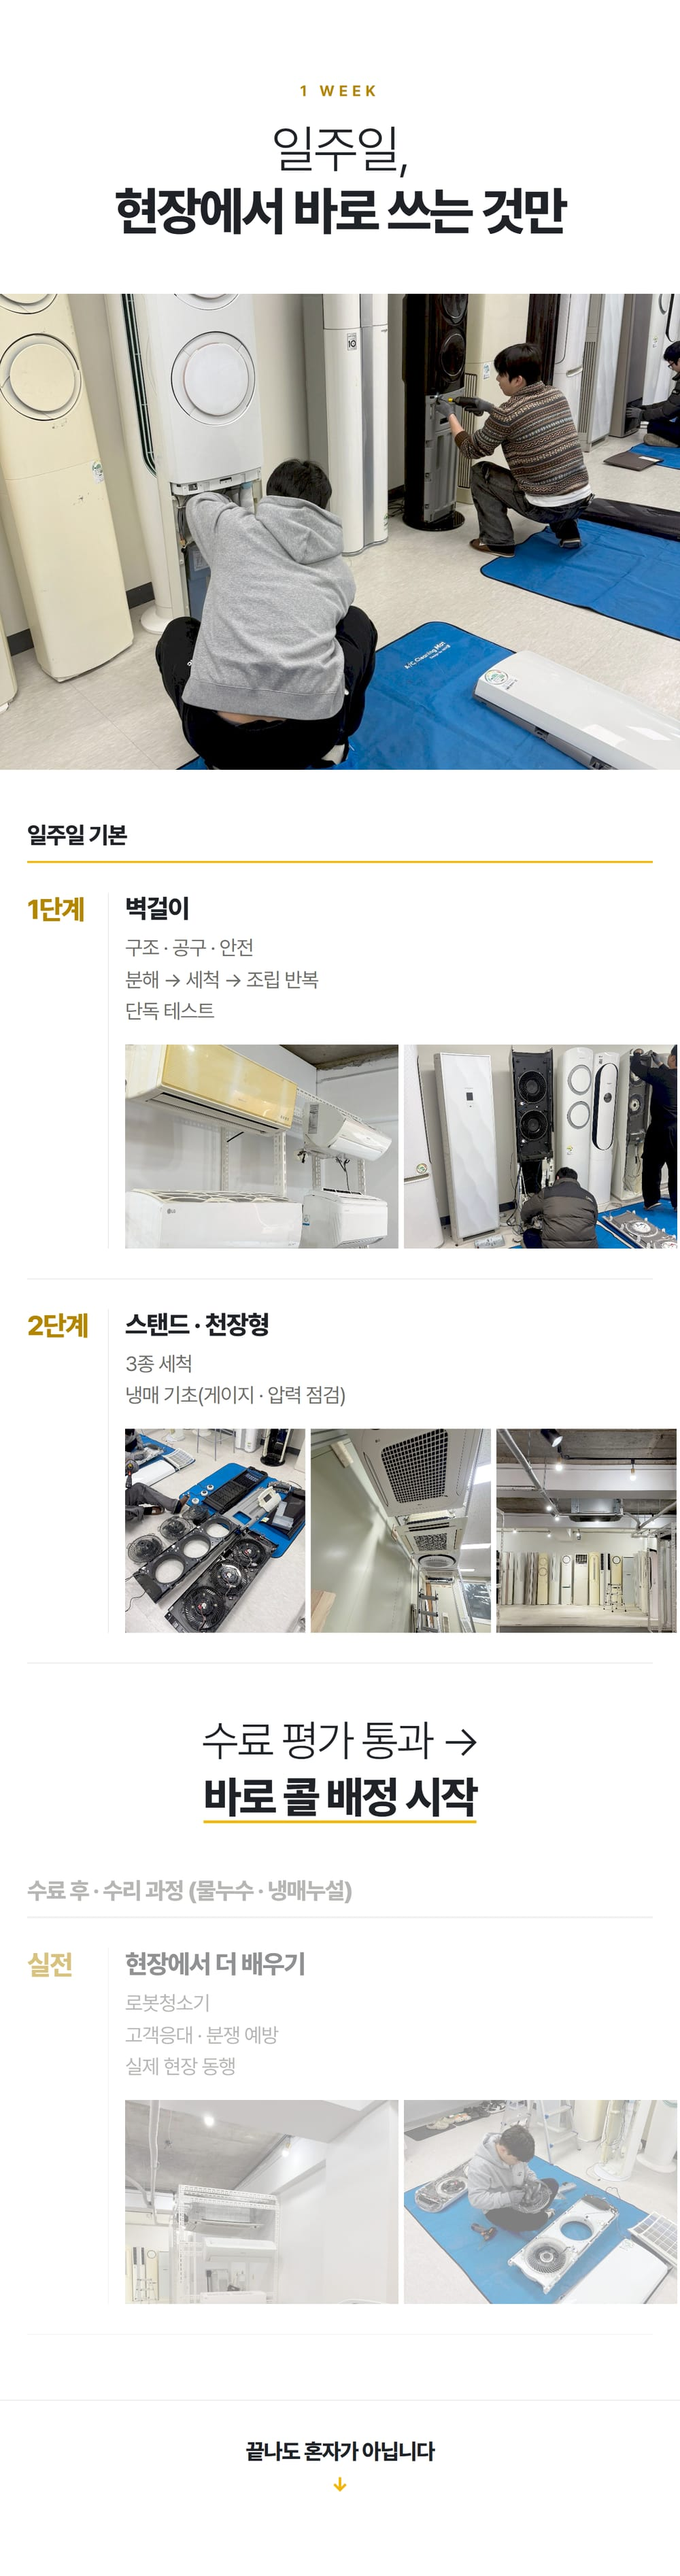
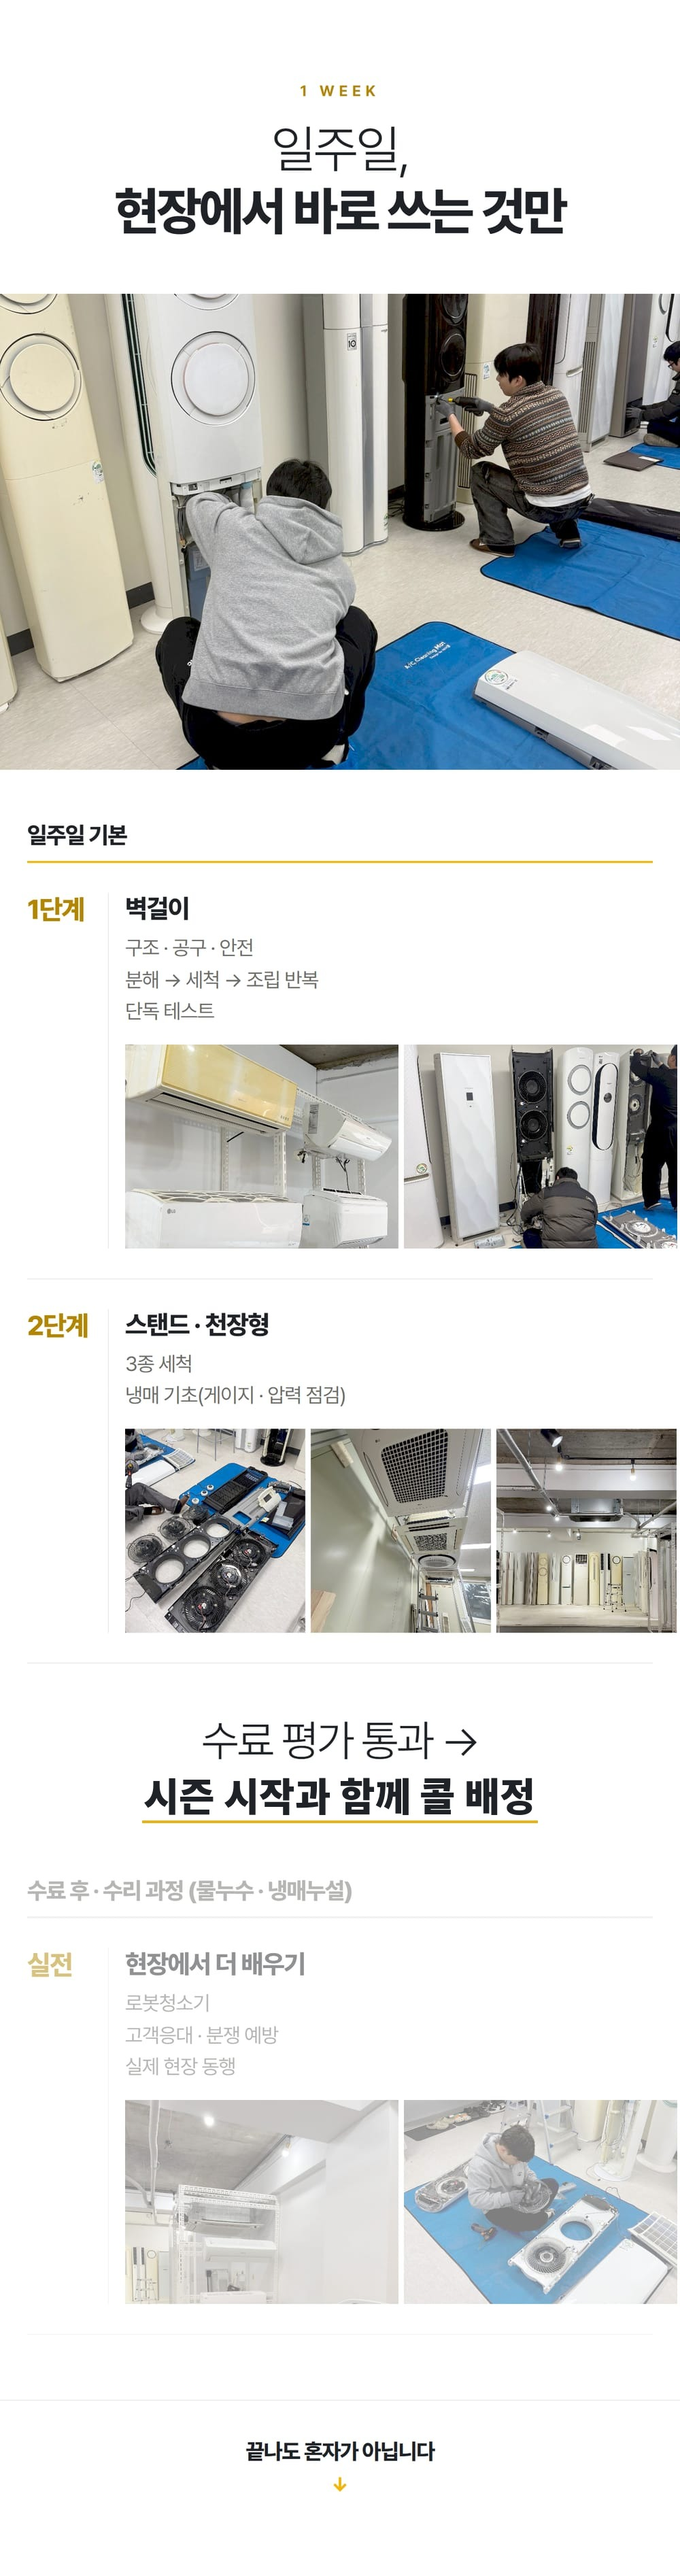
academy 수정

Changed region(s): [[0.217, 0.6853, 0.806, 0.7165]]

diff --git a/public/academy.html b/public/academy.html
@@ -4,7 +4,7 @@
 <meta charset="utf-8">
 <meta name="viewport" content="width=device-width,initial-scale=1,viewport-fit=cover">
 <title>올데이케어 에어컨 기사 양성 과정 | 일주일 배우고 일감까지</title>
-<meta name="description" content="에어컨 기사 (세척 · 물누수 · 냉매누설 수리) 일주일 과정, 교육비 0원. 수료 평가 통과 후 올데이케어 콜 배정 시작. 극성수기 실제 정산 공개. 1866-2003">
+<meta name="description" content="에어컨 기사 (세척 · 물누수 · 냉매누설 수리) 일주일 과정, 교육비 0원. 수료 평가 통과 후 시즌 시작과 함께 올데이케어 콜 배정. 극성수기 실제 정산 공개. 1866-2003">
 <meta name="robots" content="noindex">
 <link rel="stylesheet" href="https://cdn.jsdelivr.net/npm/pretendard@1.3.9/dist/web/static/pretendard.min.css">
 <style>
@@ -190,7 +190,7 @@ footer b{color:#4A5263}
   <span><small>궁금한 건 전화로 바로</small><b>1866-2003</b></span>
 </a>
 <div class="sec" data-img="img/academy/s6.jpg" data-w="1000" data-h="1892" data-alt="일 걱정은 저희가 합니다. 콜 배정, 현장 작업, 사진 보고, 정산" data-label="S6 해법"></div>
-<div class="sec" data-img="img/academy/s7.jpg" data-w="1000" data-h="3788" data-alt="일주일, 현장에서 바로 쓰는 것만. 일주일 기본: 1단계 벽걸이, 2단계 스탠드 · 천장형 · 냉매 기초. 수료 후 수리 과정 (물누수 · 냉매누설): 로봇청소기, 고객응대, 현장 동행. 수료 평가 통과 후 바로 콜 배정" data-label="S7 일주일 과정"></div>
+<div class="sec" data-img="img/academy/s7.jpg" data-w="1000" data-h="3788" data-alt="일주일, 현장에서 바로 쓰는 것만. 일주일 기본: 1단계 벽걸이, 2단계 스탠드 · 천장형 · 냉매 기초. 수료 후 수리 과정 (물누수 · 냉매누설): 로봇청소기, 고객응대, 현장 동행. 수료 평가 통과 후 시즌 시작과 함께 콜 배정" data-label="S7 일주일 과정"></div>
 <!-- 교육장 둘러보기 — 파노라마 투어 (HTML). 진짜 파노라마 사진을 받으면 img/academy/tour/ 사진만 바꾸면 됨 -->
 <section class="tour" id="tour">
   <p class="eb">TRAINING CENTER</p>
@@ -329,7 +329,11 @@ document.querySelectorAll('input[name=phone]').forEach(ph=>ph.addEventListener('
 
 /* 지원: create_inquiry_v2 → 404면 create_inquiry 폴백 (접수함에서 "교육 지원" 배지로 구분)
    service_type 은 'unknown', 지원 정보는 source (DB 가 40자까지만 저장 — 아래 형식은 최대 25자)
-   형식: academy_t/40s/office/now  (t=위 폼, b=아래 폼 / 나이대 / 지금 하는 일 / 시작 시기, 미선택은 na) */
+   형식: academy_t/40s/office/now  (t=위 폼, b=아래 폼 / 나이대 / 지금 하는 일 / 시작 시기, 미선택은 na)
+   2026-11-14 — 유입 채널을 5번째 칸에 추가 (예: academy_t/40s/office/now/ig). 링크의 ?src=ig 값, 없으면 fbclid 가 있으면 meta */
+const CH=(()=>{try{const u=new URLSearchParams(location.search);
+  const v=(u.get('src')||u.get('utm_source')||'').toLowerCase().replace(/[^a-z0-9]/g,'').slice(0,8);
+  return v||(u.get('fbclid')?'meta':'');}catch(e){return '';}})();
 async function rpc(fn,body){
   return fetch(SB_URL+'/rest/v1/rpc/'+fn,{method:'POST',headers:{'Content-Type':'application/json',apikey:SB_KEY,Authorization:'Bearer '+SB_KEY},body:JSON.stringify(body)});
 }
@@ -349,7 +353,7 @@ document.querySelectorAll('.lead-form').forEach((form,idx)=>{
     if(!q('agree').checked) return show('개인정보 수집·이용에 동의해주세요');
     btn.disabled=true; btn.textContent='접수 중…';
     /* 형식: academy_t/{20s|30s|40s|50s}/{job}/{now|1m|3m} — 40자 이내 */
-    const source=['academy_'+(idx===0?'t':'b'),age,job||'na',start||'na'].join('/');
+    const source=['academy_'+(idx===0?'t':'b'),age,job||'na',start||'na'].concat(CH?[CH]:[]).join('/');
     const base={p_service_type:'unknown',p_name:name,p_phone:phone,p_address:addr,p_agreed_privacy:true};
     try{
       let r=await rpc('create_inquiry_v2',{...base,p_source:source});
@@ -358,7 +362,7 @@ document.querySelectorAll('.lead-form').forEach((form,idx)=>{
       form.querySelectorAll('input,select').forEach(i=>i.disabled=true);
       btn.textContent='지원 완료';
       show('지원되었습니다. 담당자가 하루 안에 전화로 과정을 안내해 드립니다.',true);
-      if(window.gtag) gtag('event','generate_lead',{source:'academy'});
+      if(window.gtag) gtag('event','generate_lead',{source:'academy',channel:CH||'direct'});
     }catch(err){
       btn.disabled=false; btn.innerHTML=label;
       show('접수가 되지 않았습니다. <a href="tel:18662003" style="text-decoration:underline">1866-2003</a> 으로 전화 주세요.');

diff --git a/src/lib/inquiriesDb.js b/src/lib/inquiriesDb.js
@@ -122,11 +122,13 @@ export function isAcademySource(source) {
 const ACADEMY_AGE   = { "20s": "20대", "30s": "30대", "40s": "40대", "50s": "50대 이상" };
 const ACADEMY_JOB   = { office: "직장인", field: "현장 · 기술직", self: "자영업", none: "구직 중", etc: "기타" };
 const ACADEMY_START = { now: "바로 시작", "1m": "1개월 안 시작", "3m": "3개월 안 시작" };
+// 2026-11-14 — 5번째 칸 = 유입 채널 (academy.html?src=ig 등)
+const ACADEMY_CH    = { ig: "인스타", meta: "메타 광고", dg: "당근", nv: "네이버" };
 // → "40대 · 직장인 · 바로 시작" (선택 안 한 항목은 생략). 교육 지원이 아니면 "".
 export function academyDetail(source) {
   if (!isAcademySource(source)) return "";
-  const [, age = "", job = "", start = ""] = String(source).split("/");
-  return [ACADEMY_AGE[age], ACADEMY_JOB[job], ACADEMY_START[start]].filter(Boolean).join(" · ");
+  const [, age = "", job = "", start = "", ch = ""] = String(source).split("/");
+  return [ACADEMY_AGE[age], ACADEMY_JOB[job], ACADEMY_START[start], ACADEMY_CH[ch] || (ch ? ch : "")].filter(Boolean).join(" · ");
 }
 
 // 랜딩 접수 풀이 공통 — 입주청소·주방후드·로봇청소기·교육 지원 중 해당하는 쪽. 어느 것도 아니면 "".
